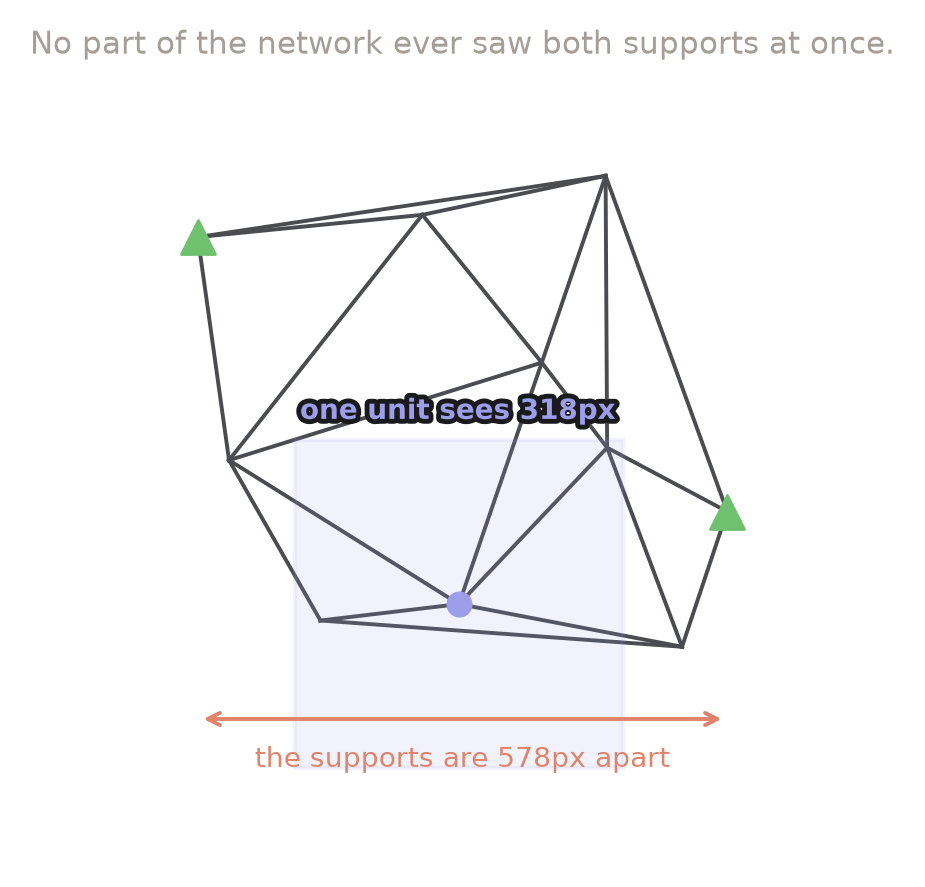
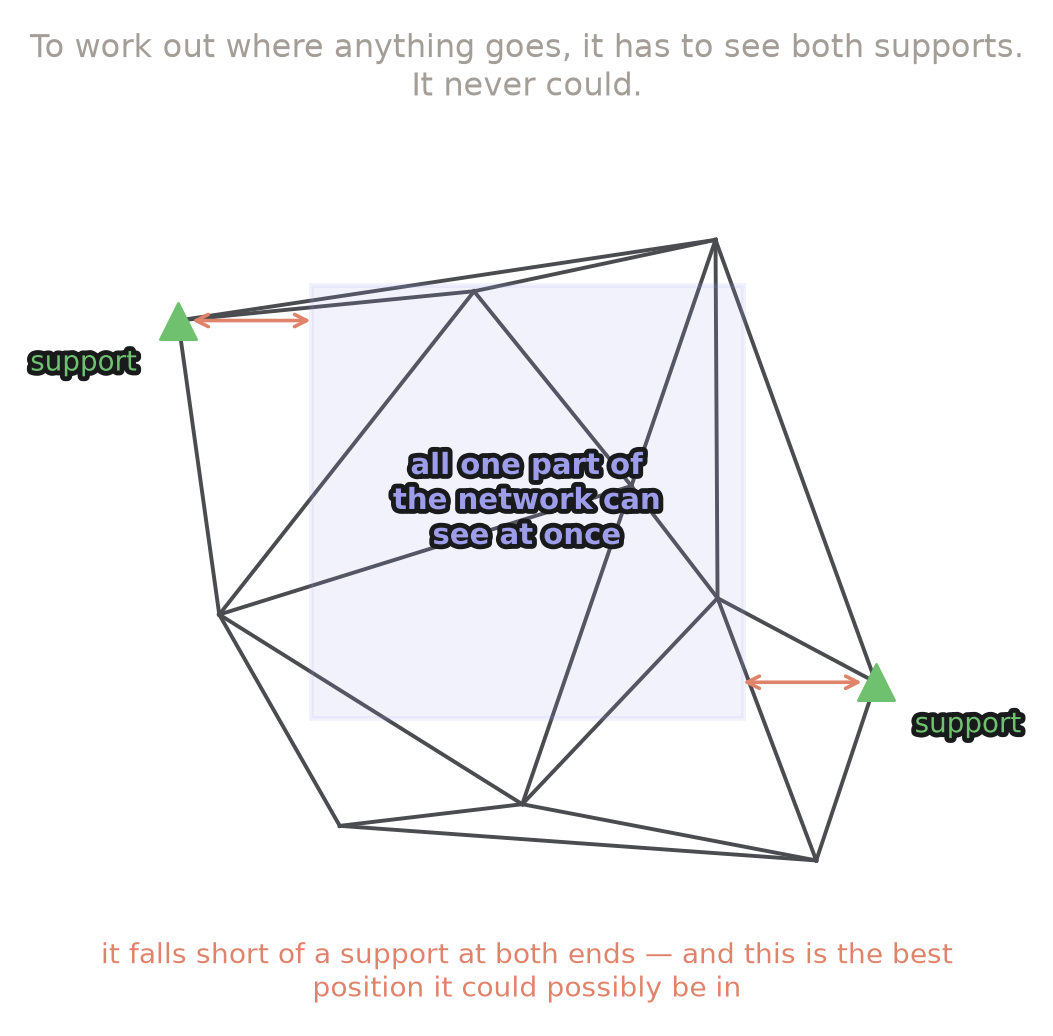
Make the receptive-field figure argue its own point
It said "one unit sees 318px" beside "the supports are 578px apart": jargon, and
two numbers with nothing to measure them against. Worse, it drew the window in
one arbitrary spot, which cannot support the claim in the title -- that *no*
part of the network ever saw both supports. One example placed anywhere in
particular shows nothing about everywhere else.

The window is now centred between the two supports, which is the most generous
position available to it, and red arrows mark the gap it still falls short by at
each end. If it cannot reach them from there it cannot reach them from anywhere,
and that is the whole argument. The window is labelled in the article's own
words -- "all one part of the network can see at once" -- rather than in units
of a downscale the reader was never told about.

Arrows are drawn at each support's own height so they end on the triangle
instead of floating at the box's mid-height pointing at nothing.

diff --git a/web/article/index.html b/web/article/index.html
@@ -335,9 +335,9 @@ work by combining small local patches, that field is limited, and mine was about
 half the width of a typical truss. <strong>No part of the network had ever seen both
 supports at the same time.</strong> I was asking it about a structure it could not look
 at in one go.</p>
-<figure class="fig"><picture><source srcset="../../images/receptive-field-dark.png" media="(prefers-color-scheme: dark)"><img alt="A truss with a shaded square showing how much of the picture one part of
-the network can see. The square is far narrower than the distance between
-the two supports." src="../../images/receptive-field.png" /></picture></figure>
+<figure class="fig"><picture><source srcset="../../images/receptive-field-dark.png" media="(prefers-color-scheme: dark)"><img alt="A truss with a shaded square over it, marking how much of the picture one
+part of the network can see at once. The square sits centred between the two
+supports and still falls short of reaching either of them." src="../../images/receptive-field.png" /></picture></figure>
 <p>That is a textbook problem with a textbook fix. I widened the field until it
 comfortably covered the whole truss, at no extra cost in model size, and
 retrained, confident this was the moment.</p>

diff --git a/training/build_figures.py b/training/build_figures.py
@@ -309,34 +309,50 @@ def receptive_field():
     field = 106 * 768 / 256
     centre = pts[s['loadedNode']]
 
-    fig, ax = plt.subplots(figsize=(7.6, 5.0))
+    # Centred between the two supports: the most generous position there is. If
+    # it cannot reach them from here it cannot reach them from anywhere, which
+    # is the claim -- one example placed arbitrarily would not support it.
+    midpoint = (pts[a] + pts[b]) / 2
+    halo = [path_effects.withStroke(linewidth=3.5, foreground=BG)]
+
+    fig, ax = plt.subplots(figsize=(8.0, 5.4))
     for i, j in s['elements']:
         ax.plot(*zip(pts[i], pts[j]), color=FAINT, lw=1.4, zorder=1)
-    ax.scatter(*pts[[a, b]].T, marker='^', s=150, color=GREEN, zorder=4)
-    ax.scatter(*centre, s=70, color=BLUE, zorder=4)
+    ax.scatter(*pts[[a, b]].T, marker='^', s=170, color=GREEN, zorder=4)
 
-    ax.add_patch(plt.Rectangle((centre[0] - field / 2, centre[1] - field / 2),
+    ax.add_patch(plt.Rectangle((midpoint[0] - field / 2, midpoint[1] - field / 2),
                                field, field, facecolor=BLUE, alpha=0.13,
-                               edgecolor=BLUE, lw=1.6, zorder=2))
+                               edgecolor=BLUE, lw=1.8, zorder=2))
+    ax.text(midpoint[0], midpoint[1], 'all one part of\nthe network can\nsee at once',
+            ha='center', va='center', color=BLUE, fontsize=10.5,
+            fontweight='bold', zorder=5, path_effects=halo)
 
-    # The span it needed to see, drawn between the two supports.
-    y = max(pts[:, 1]) + 70
-    ax.annotate('', xy=(pts[a][0], y), xytext=(pts[b][0], y),
-                arrowprops=dict(arrowstyle='<->', color=RED, lw=1.4))
-    ax.text((pts[a][0] + pts[b][0]) / 2, y + 26,
-            f'the supports are {span:.0f}px apart', ha='center', va='top',
-            color=RED, fontsize=10)
-    ax.text(centre[0], centre[1] - field / 2 - 14,
-            f'one unit sees {field:.0f}px', ha='center', va='bottom',
-            color=BLUE, fontsize=10, fontweight='bold',
-            path_effects=[path_effects.withStroke(linewidth=3.5, foreground=BG)])
+    # The two gaps it falls short by, one at each end. Drawn at each support's
+    # own height so the arrow visibly ends on the triangle, rather than floating
+    # at the box's mid-height pointing at nothing.
+    for support, sign in ((pts[a], -1), (pts[b], 1)):
+        edge = midpoint[0] + sign * field / 2
+        ax.annotate('', xy=(support[0], support[1]), xytext=(edge, support[1]),
+                    arrowprops=dict(arrowstyle='<->', color=RED, lw=1.3,
+                                    shrinkA=0, shrinkB=5), zorder=6)
+    ax.text(midpoint[0], max(pts[:, 1]) + 58,
+            'it falls short of a support at both ends — and this is the best\n'
+            'position it could possibly be in',
+            ha='center', va='top', color=RED, fontsize=10, zorder=6)
+
+    for support, side in ((pts[a], 'right'), (pts[b], 'left')):
+        ax.annotate('support', (support[0], support[1]),
+                    textcoords='offset points',
+                    xytext=(-14 if side == 'right' else 14, -18),
+                    ha=side, color=GREEN, fontsize=10, path_effects=halo, zorder=6)
 
     ax.set_aspect('equal')
     ax.invert_yaxis()
     ax.axis('off')
-    ax.margins(0.15)
-    ax.set_title('No part of the network ever saw both supports at once.',
-                 color=INK, fontsize=11, pad=12)
+    ax.margins(0.17)
+    ax.set_title('To work out where anything goes, it has to see both supports.\n'
+                 'It never could.',
+                 color=INK, fontsize=11.5, pad=14)
     save(fig, 'receptive-field')
 
 

diff --git a/article.md b/article.md
@@ -131,9 +131,9 @@ half the width of a typical truss. **No part of the network had ever seen both
 supports at the same time.** I was asking it about a structure it could not look
 at in one go.
 
-![A truss with a shaded square showing how much of the picture one part of
-the network can see. The square is far narrower than the distance between
-the two supports.](images/receptive-field.png)
+![A truss with a shaded square over it, marking how much of the picture one
+part of the network can see at once. The square sits centred between the two
+supports and still falls short of reaching either of them.](images/receptive-field.png)
 
 That is a textbook problem with a textbook fix. I widened the field until it
 comfortably covered the whole truss, at no extra cost in model size, and
